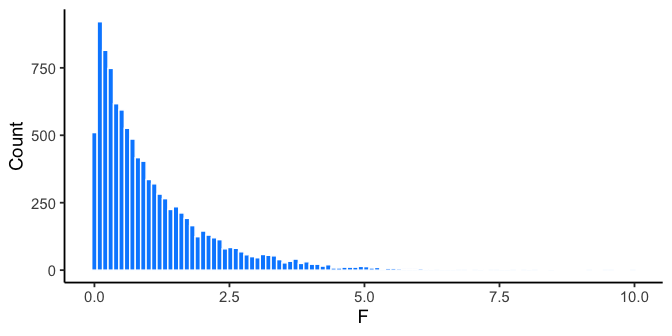
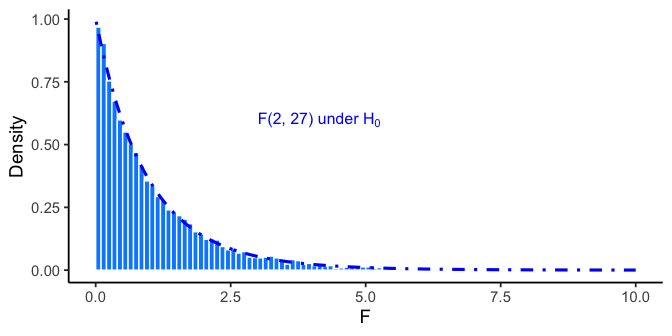
Ch8 figures: F null histograms and Type I error bars
- fig-8fnull: density scale with the F(2, 27) curve in blue dot-dash.
- fig-8criticalF: same curve, red bars past a full-height "crit = 3.35"
  line (shared bin grid with an edge at crit), arrow to the 5% tail;
  replaces the full-panel pink rect and black line.
- fig-8sigdiffs: sky bars (was red), panels numbered 1-10, site types A/B/C
  to match the prose.
- Re-render Ch8.

diff --git a/docs/08-ANOVA.html b/docs/08-ANOVA.html
@@ -791,10 +791,10 @@ Figure&nbsp;8.2: The same within-group noise with no real differences (left) and
 <p>We run this simulation 10,000 times. Each time we compute F from the sample data. The histogram of those 10,000 F-values, shown in <a href="#fig-8fnull" class="quarto-xref">Figure&nbsp;<span>8.3</span></a>, is the null distribution of F for this design.</p>
 <div class="cell">
 <div class="cell-output-display">
-<div id="fig-8fnull" class="quarto-float quarto-figure quarto-figure-center anchored" alt="Histogram of 10,000 simulated F values from a null population distribution. The histogram starts at zero, rises to a tall peak below 1, and then tapers off in a long right-hand tail, with very few values reaching as high as 5.">
+<div id="fig-8fnull" class="quarto-float quarto-figure quarto-figure-center anchored" alt="Histogram of 10,000 simulated F values from a null population distribution, with the theoretical F distribution for 2 and 27 degrees of freedom drawn over it as a blue dot-dash curve that follows the bars closely. The histogram starts at zero, rises to a tall peak below 1, and then tapers off in a long right-hand tail, with very few values reaching as high as 5.">
 <figure class="quarto-float quarto-float-fig figure">
 <div aria-describedby="fig-8fnull-caption-0ceaefa1-69ba-4598-a22c-09a6ac19f8ca">
-<img src="08-ANOVA_files/figure-html/fig-8fnull-1.png" class="img-fluid figure-img" style="width:100.0%" alt="Histogram of 10,000 simulated F values from a null population distribution. The histogram starts at zero, rises to a tall peak below 1, and then tapers off in a long right-hand tail, with very few values reaching as high as 5.">
+<img src="08-ANOVA_files/figure-html/fig-8fnull-1.png" class="img-fluid figure-img" style="width:100.0%" alt="Histogram of 10,000 simulated F values from a null population distribution, with the theoretical F distribution for 2 and 27 degrees of freedom drawn over it as a blue dot-dash curve that follows the bars closely. The histogram starts at zero, rises to a tall peak below 1, and then tapers off in a long right-hand tail, with very few values reaching as high as 5.">
 </div>
 <figcaption class="quarto-float-caption-bottom quarto-float-caption quarto-float-fig" id="fig-8fnull-caption-0ceaefa1-69ba-4598-a22c-09a6ac19f8ca">
 Figure&nbsp;8.3: A simulation of 10,000 experiments from a null population distribution with no group differences. The histogram shows 10,000 <span class="math inline">\(F\)</span>-values, one for each simulation. These are values that F can take in this situation. All of these <span class="math inline">\(F\)</span>-values were produced by random sampling error.
@@ -815,10 +815,10 @@ Figure&nbsp;8.3: A simulation of 10,000 experiments from a null population distr
 <p><a href="#fig-8criticalF" class="quarto-xref">Figure&nbsp;<span>8.4</span></a> marks that critical value on the histogram:</p>
 <div class="cell">
 <div class="cell-output-display">
-<div id="fig-8criticalF" class="quarto-float quarto-figure quarto-figure-center anchored" alt="The same right-skewed histogram of 10,000 simulated F values, now with a vertical line at F equal to 3.35 and the region beyond it shaded red and labeled '5% of F-values.' The shaded region covers only the thin tail at the far right of the histogram.">
+<div id="fig-8criticalF" class="quarto-float quarto-figure quarto-figure-center anchored" alt="The same histogram of 10,000 simulated F values with the blue dot-dash F curve over it, now with a red vertical line labeled crit equals 3.35. The bars beyond that line are shaded red and labeled '5% of F-values'; they form only the thin tail at the far right of the histogram.">
 <figure class="quarto-float quarto-float-fig figure">
 <div aria-describedby="fig-8criticalF-caption-0ceaefa1-69ba-4598-a22c-09a6ac19f8ca">
-<img src="08-ANOVA_files/figure-html/fig-8criticalF-1.png" class="img-fluid figure-img" style="width:100.0%" alt="The same right-skewed histogram of 10,000 simulated F values, now with a vertical line at F equal to 3.35 and the region beyond it shaded red and labeled '5% of F-values.' The shaded region covers only the thin tail at the far right of the histogram.">
+<img src="08-ANOVA_files/figure-html/fig-8criticalF-1.png" class="img-fluid figure-img" style="width:100.0%" alt="The same histogram of 10,000 simulated F values with the blue dot-dash F curve over it, now with a red vertical line labeled crit equals 3.35. The bars beyond that line are shaded red and labeled '5% of F-values'; they form only the thin tail at the far right of the histogram.">
 </div>
 <figcaption class="quarto-float-caption-bottom quarto-float-caption quarto-float-fig" id="fig-8criticalF-caption-0ceaefa1-69ba-4598-a22c-09a6ac19f8ca">
 Figure&nbsp;8.4: The critical value for <span class="math inline">\(F\)</span> where 5% of all <span class="math inline">\(F\)</span>-values lie beyond this point
@@ -849,10 +849,10 @@ Figure&nbsp;8.4: The critical value for <span class="math inline">\(F\)</span> w
 <p>The 10,000 simulated experiments never showed the group means behind each <span class="math inline">\(F\)</span>-value. Earlier we found a critical value of 3.35: only 5% of <span class="math inline">\(F\)</span>-values from this null distribution exceed it. <a href="#fig-8sigdiffs" class="quarto-xref">Figure&nbsp;<span>8.5</span></a> shows the group means for 10 simulations filtered to exactly that rare case, <span class="math inline">\(F&gt;3.35\)</span>, even though every one of them is still drawn from the same null population distribution with no real group differences. Rejecting the null whenever <span class="math inline">\(F\)</span> clears 3.35 is the right long-run decision rule, but every one of these particular simulations would be a Type I error if we did.</p>
 <div class="cell">
 <div class="cell-output-display">
-<div id="fig-8sigdiffs" class="quarto-float quarto-figure quarto-figure-center anchored" alt="Ten small panels of red bar charts with three bars each for site types A, B, and C, all filtered to simulations where F exceeded the critical value of 3.35. In every panel at least one bar's error bars do not overlap with another's, giving the visual impression of a real difference even though all ten panels were generated with no true group difference.">
+<div id="fig-8sigdiffs" class="quarto-float quarto-figure quarto-figure-center anchored" alt="Ten small panels of blue bar charts with three bars each for site types A, B, and C, all filtered to simulations where F exceeded the critical value of 3.35. In every panel at least one bar's error bars do not overlap with another's, giving the visual impression of a real difference even though all ten panels were generated with no true group difference.">
 <figure class="quarto-float quarto-float-fig figure">
 <div aria-describedby="fig-8sigdiffs-caption-0ceaefa1-69ba-4598-a22c-09a6ac19f8ca">
-<img src="08-ANOVA_files/figure-html/fig-8sigdiffs-1.png" class="img-fluid figure-img" style="width:100.0%" alt="Ten small panels of red bar charts with three bars each for site types A, B, and C, all filtered to simulations where F exceeded the critical value of 3.35. In every panel at least one bar's error bars do not overlap with another's, giving the visual impression of a real difference even though all ten panels were generated with no true group difference.">
+<img src="08-ANOVA_files/figure-html/fig-8sigdiffs-1.png" class="img-fluid figure-img" style="width:100.0%" alt="Ten small panels of blue bar charts with three bars each for site types A, B, and C, all filtered to simulations where F exceeded the critical value of 3.35. In every panel at least one bar's error bars do not overlap with another's, giving the visual impression of a real difference even though all ten panels were generated with no true group difference.">
 </div>
 <figcaption class="quarto-float-caption-bottom quarto-float-caption quarto-float-fig" id="fig-8sigdiffs-caption-0ceaefa1-69ba-4598-a22c-09a6ac19f8ca">
 Figure&nbsp;8.5: Different patterns of group means under the null when F is above critical value (these are all type I Errors).
